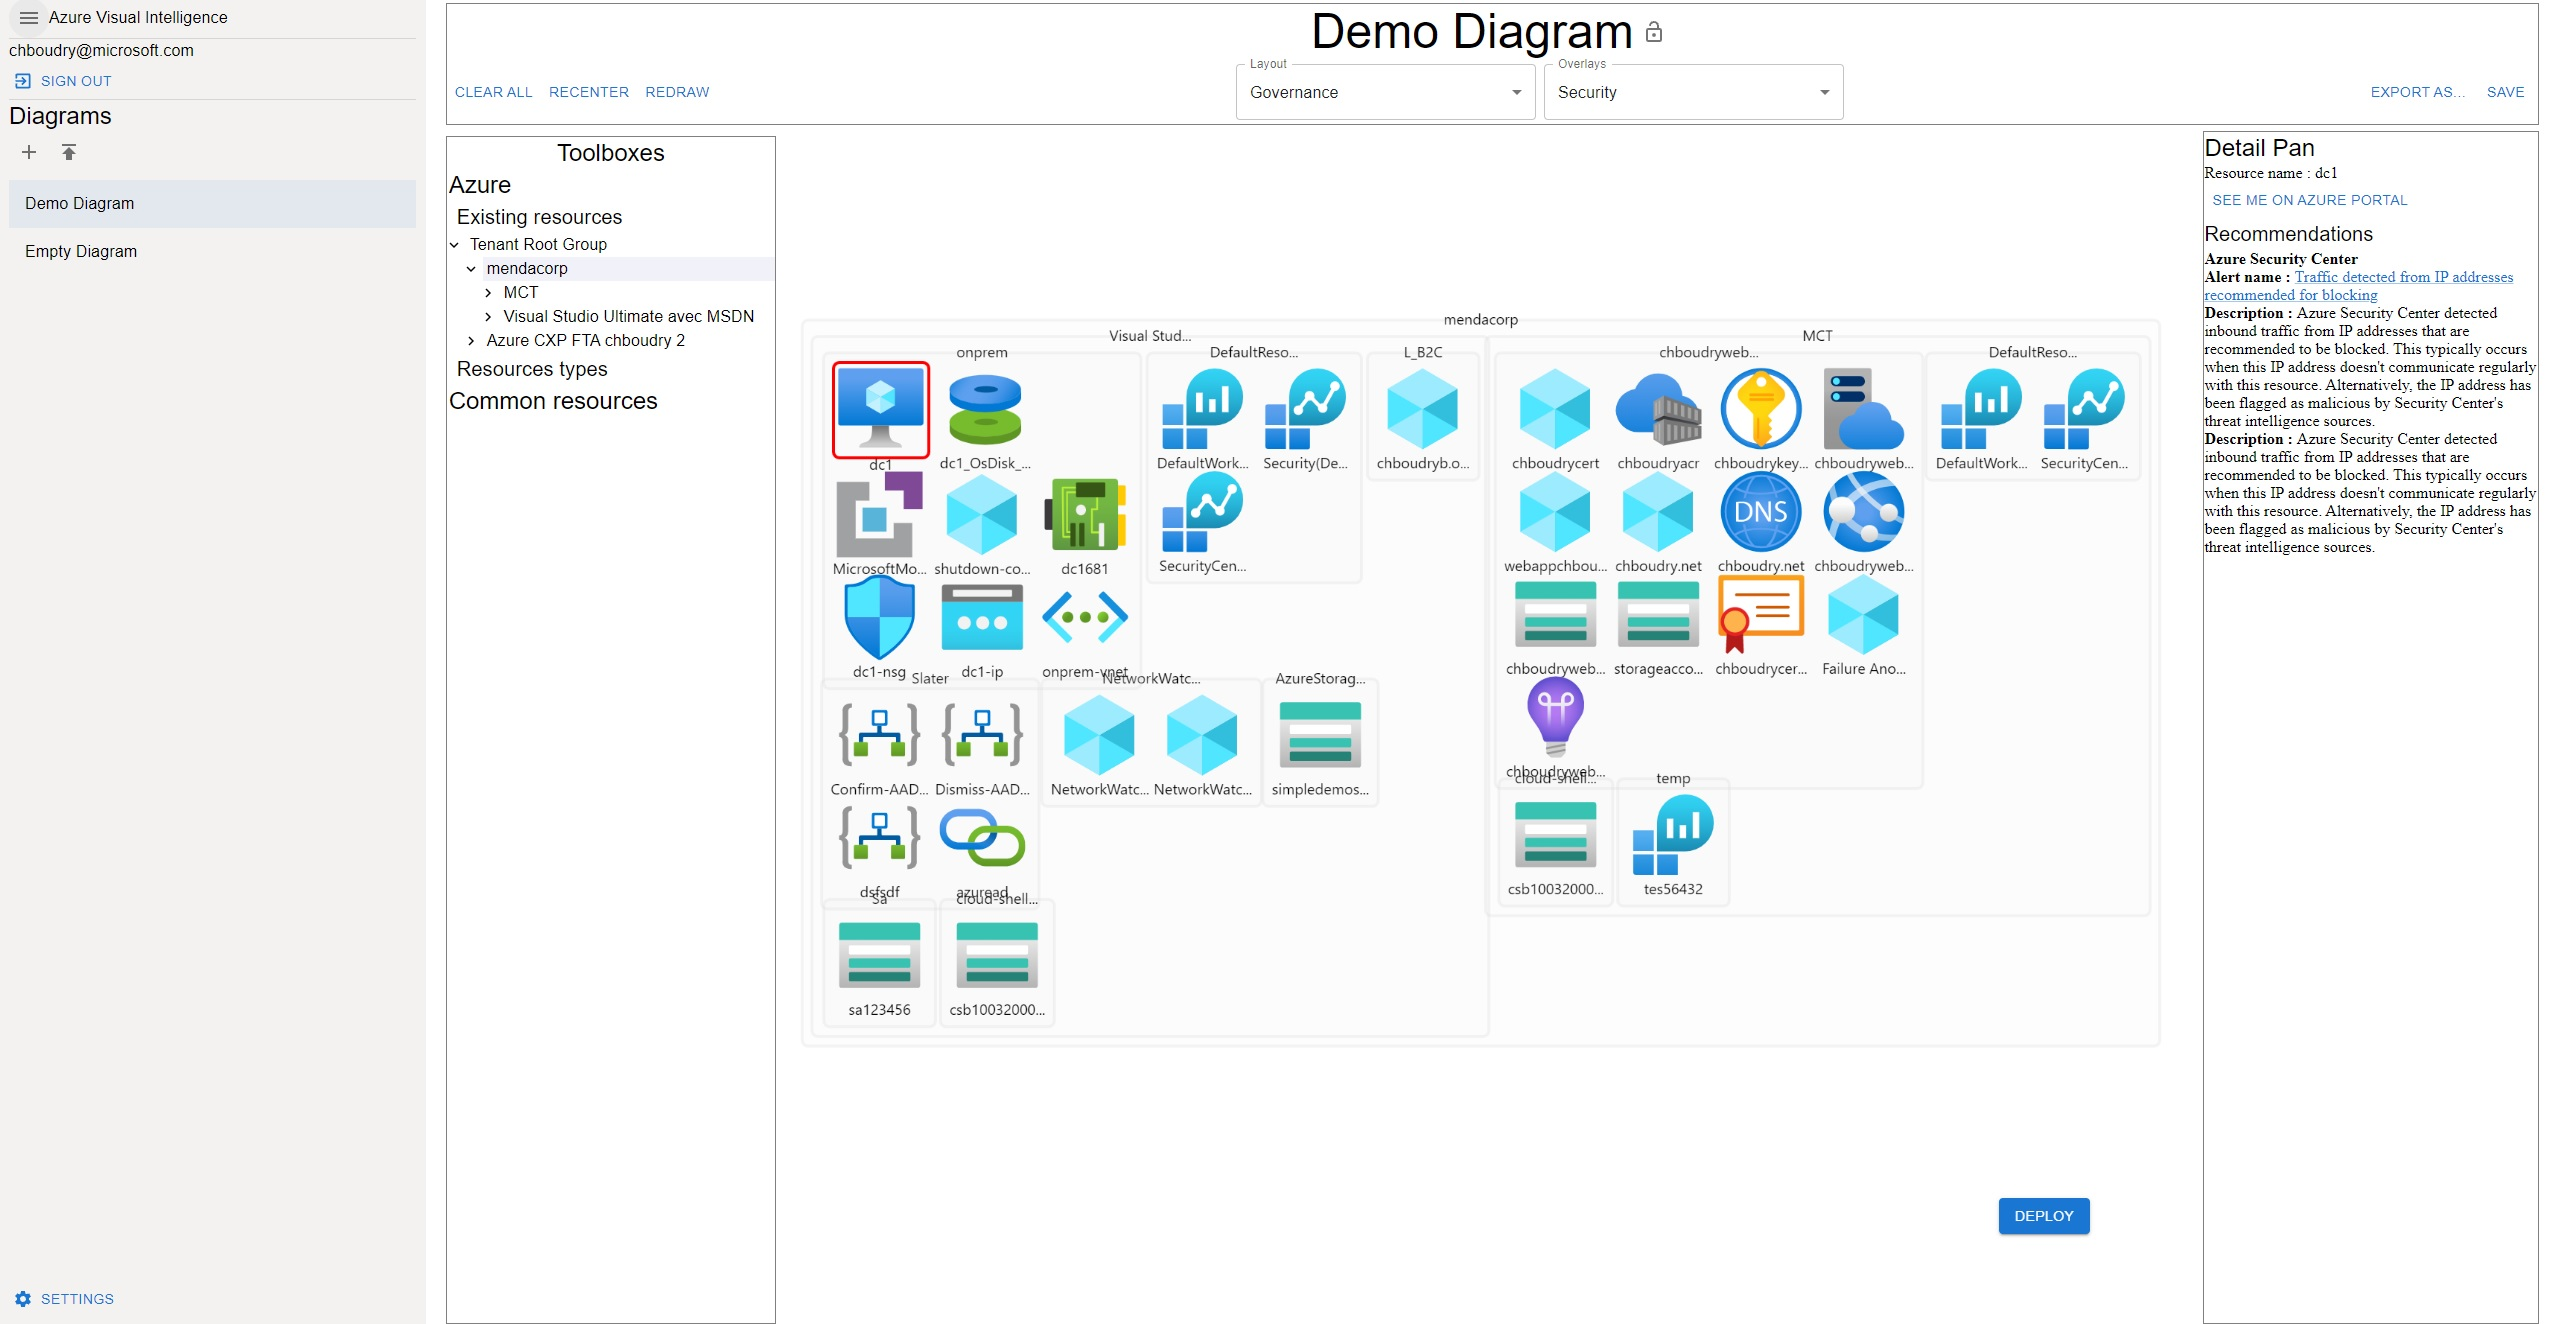
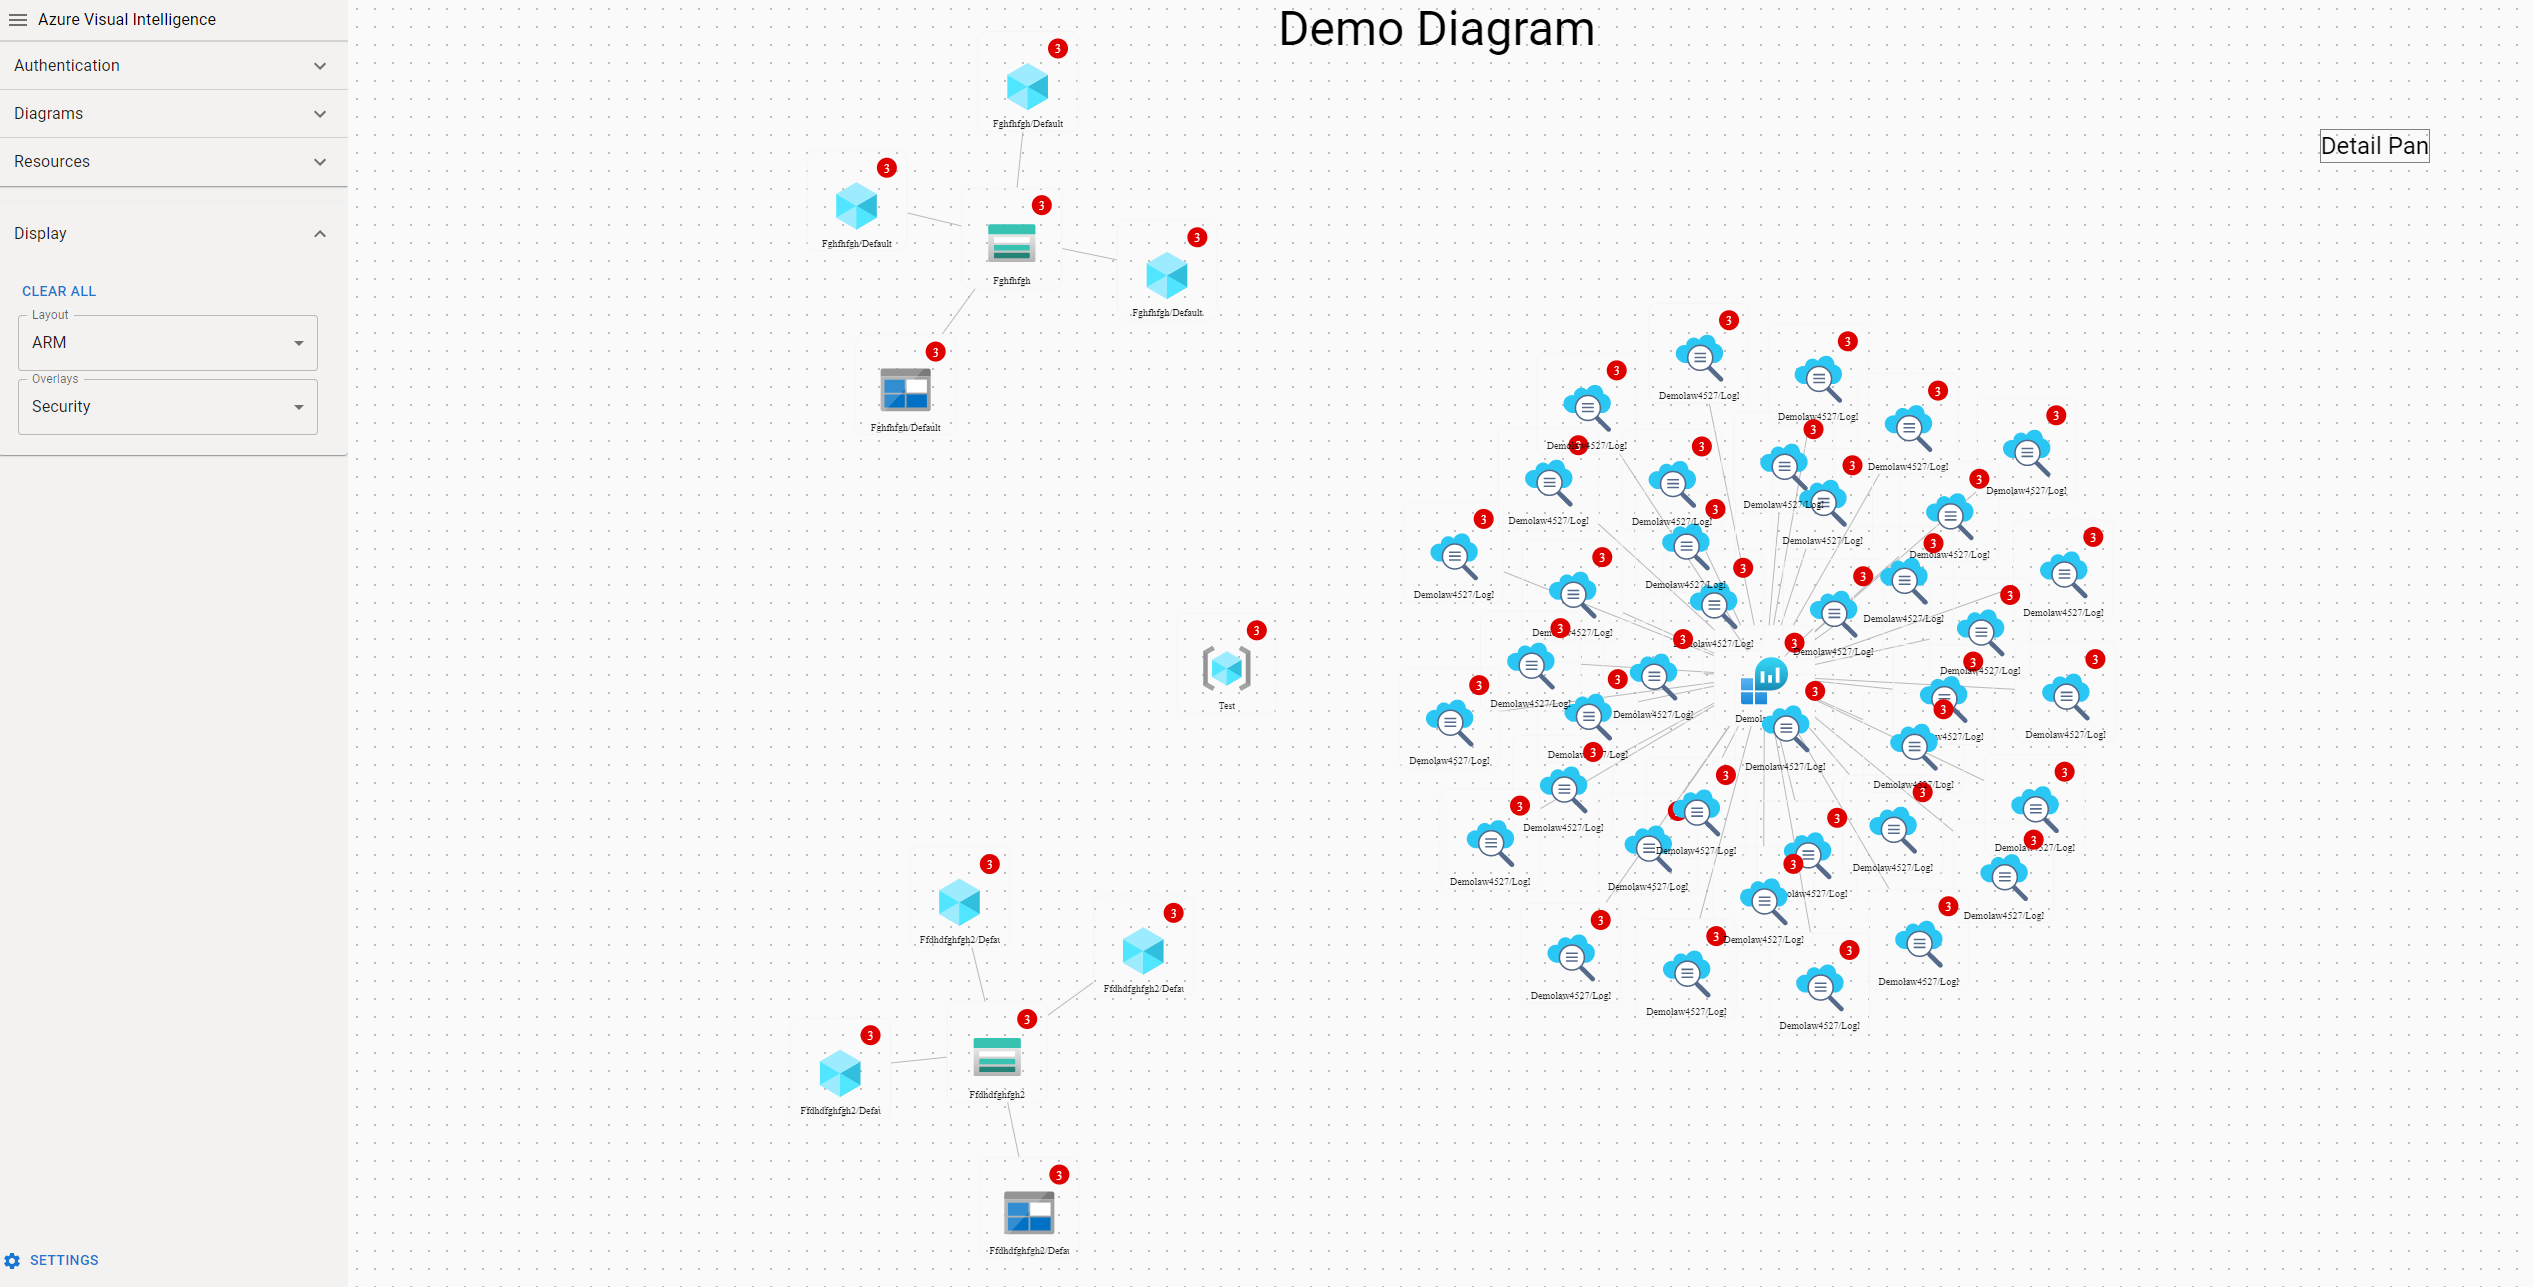
aa

diff --git a/src/resourcesengines/arm/arm.ts b/src/resourcesengines/arm/arm.ts
@@ -91,6 +91,15 @@ export class armEngine extends resourcesEngine {
       }
 
       for (let resource of resourcegroupARMtemplate.resources) {
+        //let's be bold and add ID relation, assuming required subtype will be added later anyway :p
+        const IDrelations: AVIrelation[] = armEngine.GenerateAVIARMIDRelations(
+          resourceGroupID,
+          resource
+        );
+        for (var IDrelation of IDrelations) {
+          returnEdges.push(IDrelation);
+        }
+
         //ADD and Enrich subtype related to resources part of the parameters
         //ADD the relation between main type and subtype
         if (armEngine.isSubType(resource)) {
@@ -165,14 +174,119 @@ export class armEngine extends resourcesEngine {
     return AVIrelation;
   }
 
+  static getDeepKeys(obj: any) {
+    var keys = [];
+    for (var key in obj) {
+      if (key === "id") {
+        keys.push(obj[key]);
+      }
+      if (typeof obj[key] === "object") {
+        var subkeys: any = armEngine.getDeepKeys(obj[key]);
+        keys = keys.concat(
+          subkeys.map(function (subkey: any) {
+            return subkey;
+          })
+        );
+      }
+    }
+    return keys;
+  }
+  static GenerateAVIARMIDRelations(
+    resourceGroupID: string,
+    resourceTemplate: any
+  ) {
+    let returnRelations: AVIrelation[] = [];
+    if (armEngine.isSubType(resourceTemplate)) {
+      const AVIresourceID =
+        resourceGroupID.toLowerCase() +
+        "/providers/" +
+        resourceTemplate.type.split("/")[0].toLowerCase() +
+        "/" +
+        resourceTemplate.type.split("/")[1].toLowerCase() +
+        "/" +
+        resourceTemplate.name.split("/")[0].toLowerCase() +
+        "/" +
+        resourceTemplate.type.split("/")[2].toLowerCase() +
+        "/" +
+        resourceTemplate.name.split("/")[1].toLowerCase();
+      let IDrelations = armEngine.getDeepKeys(resourceTemplate);
+      for (let IDtarget of IDrelations) {
+        if (IDtarget.startsWith("[resourceId")) {
+          const regex = new RegExp(
+            "\\[resourceId\\(\\'(?<resourcetype>.*?)\\',\\s\\'(?<resourcename>.*?)\\'"
+          );
+          const result = regex.exec(IDtarget);
+          if (result !== undefined && result !== null) {
+            if (result.groups !== undefined) {
+              const target =
+                resourceGroupID.toLowerCase() +
+                "/providers/" +
+                result.groups.resourcetype.toLowerCase() +
+                "/" +
+                result.groups.resourcename.toLowerCase();
+              if (IDtarget !== AVIresourceID) {
+                let AVIrelation: AVIrelation = {
+                  AVIrelationID: AVIresourceID + IDtarget,
+                  sourceID: AVIresourceID,
+                  targetID: target,
+                  type: "ref",
+                };
+                returnRelations.push(AVIrelation);
+              }
+            }
+          }
+        }
+      }
+    } else {
+      const AVIresourceID =
+        resourceGroupID.toLowerCase() +
+        "/providers/" +
+        resourceTemplate.type.split("/")[0].toLowerCase() +
+        "/" +
+        resourceTemplate.type.split("/")[1].toLowerCase() +
+        "/" +
+        resourceTemplate.name.split("/")[0].toLowerCase();
+      let IDrelations = armEngine.getDeepKeys(resourceTemplate);
+      for (let IDtarget of IDrelations) {
+        if (IDtarget.startsWith("[resourceId")) {
+          const regex = new RegExp(
+            "\\[resourceId\\(\\'(?<resourcetype>.*?)\\',\\s\\'(?<resourcename>.*?)\\'"
+          );
+          const result = regex.exec(IDtarget);
+          if (result !== undefined && result !== null) {
+            if (result.groups !== undefined) {
+              const target =
+                resourceGroupID.toLowerCase() +
+                "/providers/" +
+                result.groups.resourcetype.toLowerCase() +
+                "/" +
+                result.groups.resourcename.toLowerCase();
+              if (IDtarget !== AVIresourceID) {
+                let AVIrelation: AVIrelation = {
+                  AVIrelationID: AVIresourceID + IDtarget,
+                  sourceID: AVIresourceID,
+                  targetID: target,
+                  type: "ref",
+                };
+                returnRelations.push(AVIrelation);
+              }
+            }
+          }
+        }
+      }
+    }
+
+    return returnRelations;
+  }
+
   static GenerateAVIResourceFromTemplate(
     resourceGroupID: string,
     resourceTemplate: any
   ) {
     let AVIresource: AVIresource = {
       AVIresourceID:
-        resourceGroupID +
-        "/" +
+        resourceGroupID.toLowerCase() +
+        "/providers/" +
         resourceTemplate.type.split("/")[0].toLowerCase() +
         "/" +
         resourceTemplate.type.split("/")[1].toLowerCase() +

diff --git a/src/redux/sagas/handlers/newDiagramResources.js b/src/redux/sagas/handlers/newDiagramResources.js
@@ -1,7 +1,10 @@
 import { call, put, select, all } from "redux-saga/effects";
-import { setDiagramNodes } from "../../ducks/diagramSlice";
+import {
+  setDiagramNodes,
+  getDiagramResources,
+  getDiagramResource,
+} from "../../ducks/diagramSlice";
 
-export const getDiagramResources = (state) => state.diagram.resources;
 export const getDiagramRelations = (state) => state.diagram.relations;
 export const getAzureSettings = (state) => state.settings;
 export const getCurrentLayout = (state) => state.settings.diagram.CurrentLayout;
@@ -14,7 +17,7 @@ export function* handleNewDiagramResources(action) {
 
     //Call
     const responses = yield all(
-      azureSettings.layout.map((layout) =>
+      yield azureSettings.layout.map((layout) =>
         call(
           AddDiagramResourceToDisplay,
           currentDiagramResources,
@@ -25,6 +28,8 @@ export function* handleNewDiagramResources(action) {
       )
     );
 
+    console.log("ended");
+
     yield all(
       responses.map((response) => {
         return put(setDiagramNodes(response));
@@ -33,9 +38,10 @@ export function* handleNewDiagramResources(action) {
   } catch (error) {
     console.log(error);
   }
+  console.log("All setDiagramNodes ended");
 }
 
-function AddDiagramResourceToDisplay(
+function* AddDiagramResourceToDisplay(
   diagramResources,
   diagramRelations,
   azureSettings,
@@ -47,6 +53,7 @@ function AddDiagramResourceToDisplay(
   var returnNodes = [];
   var returnEdges = [];
   for (const resource of diagramResources) {
+    console.log("doing something");
     //get the azure resource metadata
     var nodeSettings = azureSettings.resources.azure.find(
       (element) => element.type === resource.type
@@ -98,21 +105,38 @@ function AddDiagramResourceToDisplay(
   }
   //edge
   if (Evaluatedlayout === "ARM") {
-    for (var relation of diagramRelations) {
-      var newEdge = {
-        data: {
-          id: relation.AVIrelationID,
-          source: relation.sourceID,
-          target: relation.targetID,
-        },
-      };
-      returnEdges.push(newEdge);
+    let cpt = 0;
+    let diagramResources = yield select(getDiagramResources);
+    for (let relation of diagramRelations) {
+      cpt++;
+      console.log("cpt", cpt);
+      console.log("doing something in relation loop", relation);
+      if (
+        isResourcePartOfDiagram(diagramResources, relation.sourceID) &&
+        isResourcePartOfDiagram(diagramResources, relation.targetID)
+      ) {
+        let newEdge = {
+          data: {
+            id: relation.AVIrelationID,
+            source: relation.sourceID,
+            target: relation.targetID,
+          },
+        };
+        returnEdges.push(newEdge);
+      } else {
+        console.log(
+          "Creating relation : source or target does not exist :",
+          relation
+        );
+      }
     }
+    console.log("out");
   }
 
   if (Evaluatedlayout === "Governance") {
     //we update parent relation ship to ALL nodes (relation of some old node may have change with this new node)
     returnNodes.forEach(function (node, index) {
+      console.log("doing something in governance loop");
       var ParentNode = returnNodes.find(
         (element) => element.data.id === this[index].data.parentgovernance
       );
@@ -129,7 +153,18 @@ function AddDiagramResourceToDisplay(
       }
     }, returnNodes);
   }
+  console.log("AddDiagramResourceToDisplay finished", Evaluatedlayout);
   return { Evaluatedlayout, returnNodes, returnEdges };
+}
+
+function isResourcePartOfDiagram(diagramResources, AVIID) {
+  //const template = yield select(getDiagramResource, AVIID);
+  const result = diagramResources.find((item) => item.AVIresourceID === AVIID);
+  if (result !== undefined) {
+    return true;
+  } else {
+    return false;
+  }
 }
 
 /*

diff --git a/src/redux/sagas/handlers/dragndrop.ts b/src/redux/sagas/handlers/dragndrop.ts
@@ -44,6 +44,7 @@ function* AddResourceToDiagram(
     payload
   );
 
+  console.log("resources", resources);
   //Now we are working on legit AVIresource type.
   //We ask armEngine to complete the list of resources with related resources and provide ARM info to all thoses resources
   var relations: AVIrelation[] = [];
@@ -76,14 +77,14 @@ function updateToolboxResourcestoAVIresources(Toolboxes: any) {
   let payload: AVIresource[] = [];
   for (const resource of Toolboxes) {
     let AVIresource: AVIresource = {
-      AVIresourceID: resource.TreeID,
-      resourcegroup: resource.resourceGroup,
-      subscription: resource.subscriptionId,
-      type: resource.type,
-      name: resource.name,
+      AVIresourceID: resource.TreeID.toLowerCase(),
+      resourcegroup: resource.resourceGroup.toLowerCase(),
+      subscription: resource.subscriptionId.toLowerCase(),
+      type: resource.type.toLowerCase(),
+      name: resource.name.toLowerCase(),
       enrichments: {
         ARG: {
-          parent: resource.TreeParentID,
+          parent: resource.TreeParentID.toLowerCase(),
         },
       },
     };

diff --git a/src/redux/ducks/settingsSlice.js b/src/redux/ducks/settingsSlice.js
@@ -703,14 +703,6 @@ const initialState = {
           type: "default",
           diagramprimitive: "item",
         },
-        {
-          type: "microsoft.compute/virtualmachines/extensions",
-          diagramprimitive: "hidden",
-        },
-        {
-          type: "microsoft.compute/disks",
-          diagramprimitive: "hidden",
-        },
       ],
     },
     {

diff --git a/src/components/diagramEcosystem/diagram/Graph.js b/src/components/diagramEcosystem/diagram/Graph.js
@@ -231,6 +231,7 @@ const Graph = () => {
           ],
           minZoom: 0.2,
           maxZoom: 4,
+          wheelSensitivity: 0.5,
           container: container.current,
         });
         graph.current.on("click", "node", function (evt) {
